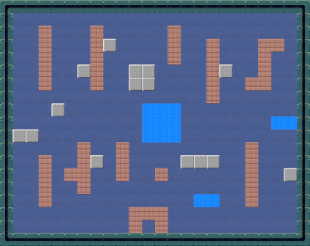
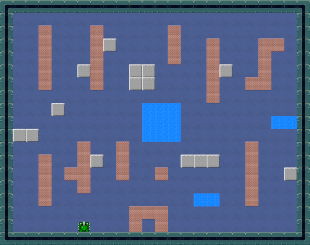
small fixes and new levels

diff --git a/source/menu/menu_items.cpp b/source/menu/menu_items.cpp
@@ -147,7 +147,9 @@ std::string MenuInscription::getContent() const {
     return static_cast<std::string>(text.getString());
 }
 
-MenuRectangle::MenuRectangle(Button &info, const sf::Vector2<float> &coordinates) : rectangle(info.getSize()) {
+MenuRectangle::MenuRectangle(Button &info,
+                             const sf::Vector2<float> &coordinates)
+    : rectangle(info.getSize()) {
     rectangle.setPosition(coordinates);
     rectangle.setFillColor(info.getStandardColor());
 }
@@ -244,13 +246,19 @@ MenuPicture::MenuPicture(const sf::Image &image_,
     initWithImage(coordinates);
 }
 
-MenuPicture::MenuPicture(const std::string &filename,  size_t sizeOfOne, size_t count, const sf::Vector2<float> &coordinates) : MenuItem(coordinates) { // NOLINT
+MenuPicture::MenuPicture(const std::string &filename,
+                         size_t sizeOfOne,
+                         size_t count,
+                         const sf::Vector2<float> &coordinates)
+    : MenuItem(coordinates) {  // NOLINT
     image.loadFromFile(filename);
     texture.loadFromImage(image);
     sprites.resize(count);
     for (size_t i = 0; i < count; ++i) {
         sprites[i].setTexture(texture);
-        sprites[i].setTextureRect(sf::IntRect{static_cast<int>(sizeOfOne * i), 0, static_cast<int>(sizeOfOne), static_cast<int>(sizeOfOne)});
+        sprites[i].setTextureRect(sf::IntRect{static_cast<int>(sizeOfOne * i),
+                                              0, static_cast<int>(sizeOfOne),
+                                              static_cast<int>(sizeOfOne)});
         sprites[i].setPosition(coordinates);
     }
 }
@@ -269,7 +277,8 @@ sf::Vector2<float> MenuPicture::getPosition() const {
 
 sf::Vector2<float> MenuPicture::getSize() const {
     assert(!sprites.empty());
-    return sf::Vector2<float>{sprites[0].getLocalBounds().width, sprites[0].getLocalBounds().height};
+    return sf::Vector2<float>{sprites[0].getLocalBounds().width,
+                              sprites[0].getLocalBounds().height};
 }
 
 void MenuPicture::setPosition(sf::Vector2<float> newPosition) {
@@ -339,12 +348,14 @@ MenuAdditionalButton::MenuAdditionalButton(const MenuItem *const mainButton_,
                                            int marginFromLeft,
                                            std::unique_ptr<MenuItem> &&content,
                                            ButtonWithType &info)
-    : MenuButton(std::move(content),
-                 sf::Vector2<float>{mainButton_->getPosition().x +
-                                        static_cast<float>(marginFromLeft) +
-                                        mainButton_->getSize().x,
-                                    mainButton_->getPosition().y + mainButton_->getSize().y - info.getSize().y},
-                 info),
+    : MenuButton(
+          std::move(content),
+          sf::Vector2<float>{mainButton_->getPosition().x +
+                                 static_cast<float>(marginFromLeft) +
+                                 mainButton_->getSize().x,
+                             mainButton_->getPosition().y +
+                                 mainButton_->getSize().y - info.getSize().y},
+          info),
       mainButton(mainButton_) {
 }
 

diff --git a/source/menu/menu.cpp b/source/menu/menu.cpp
@@ -219,12 +219,17 @@ void Menu::addAddingButtons(size_t start,
 
 void Menu::addPlayerInfo(PlayerGeneral &info) {
     const static size_t marginFromBackground = 20;
-    sf::Vector2<float> curCoordinates{marginFromBackground + items[0]->getPosition().x + items[0]->getSize().x, marginFromBackground};
+    sf::Vector2<float> curCoordinates{marginFromBackground +
+                                          items[0]->getPosition().x +
+                                          items[0]->getSize().x,
+                                      marginFromBackground};
     const static sf::Color defaultTextColor{255, 255, 255};
     const static size_t characterSize = 40;
 
-    InscriptionInfo usernameParameters{info.name, characterSize, defaultTextColor};
-    auto username = std::make_unique<MenuInscription>(usernameParameters, curCoordinates);
+    InscriptionInfo usernameParameters{info.name, characterSize,
+                                       defaultTextColor};
+    auto username =
+        std::make_unique<MenuInscription>(usernameParameters, curCoordinates);
     const static size_t marginFromUsername = 50;
     curCoordinates.x += username->getSize().x + marginFromUsername;
 
@@ -233,16 +238,23 @@ void Menu::addPlayerInfo(PlayerGeneral &info) {
     const static size_t sizeOfOne = 32;
     const static size_t imagesCount = 16;
 
-    auto coin = std::make_unique<MenuPicture>(coinFilename, sizeOfOne, imagesCount, curCoordinates);
+    auto coin =
+        std::make_unique<MenuPicture>(coinFilename, sizeOfOne, imagesCount, curCoordinates);
     curCoordinates.x += coin->getSize().x + marginFromCoin;
 
-    InscriptionInfo moneyParameters{std::to_string(info.money), characterSize, defaultTextColor};
-    auto money = std::make_unique<MenuInscription>(moneyParameters, curCoordinates);
+    InscriptionInfo moneyParameters{std::to_string(info.money), characterSize,
+                                    defaultTextColor};
+    auto money =
+        std::make_unique<MenuInscription>(moneyParameters, curCoordinates);
     curCoordinates = {items[0]->getPosition().x + items[0]->getSize().x, 0};
 
     const static sf::Color rectangleColor{0, 0, 0, 128};
-    float maxHeight = std::max(std::max(username->getSize().y, coin->getSize().y), money->getSize().y);
-    sf::Vector2<float> rectangleSize{2*marginFromBackground + username->getSize().x + marginFromUsername + coin->getSize().x + marginFromCoin + money->getSize().x, marginFromBackground*2 + maxHeight};
+    float maxHeight = std::max(
+        std::max(username->getSize().y, coin->getSize().y), money->getSize().y);
+    sf::Vector2<float> rectangleSize{
+        2*marginFromBackground + username->getSize().x + marginFromUsername +
+            coin->getSize().x + marginFromCoin + money->getSize().x,
+        marginFromBackground*2 + maxHeight};
     Button btnInfo(rectangleSize, rectangleColor, rectangleColor);
     auto background = std::make_unique<MenuRectangle>(btnInfo, curCoordinates);
 

diff --git a/source/menu/upgrade_menu.cpp b/source/menu/upgrade_menu.cpp
@@ -1,7 +1,7 @@
 #include "menu/upgrade_menu.h"
 #include <cassert>
-#include "menu/progress_bar.h"
 #include <cmath>
+#include "menu/progress_bar.h"
 
 namespace Tanks::Menu {
 
@@ -134,7 +134,7 @@ void updateSkills(PlayerSkills &skills, const ProgressBar *progressBar) {
     }
 }
 
-}
+}  // namespace
 
 void showUpgradeMenu(sf::RenderWindow &window,
                      const sf::Sprite &backgroundSprite,
@@ -155,9 +155,11 @@ void showUpgradeMenu(sf::RenderWindow &window,
                 const auto *btn =
                     dynamic_cast<const MenuAdditionalButton *>(res);
                 assert(btn != nullptr);
-                const auto *progressBar = dynamic_cast<const ProgressBar*>(btn->getMainButton());
+                const auto *progressBar =
+                    dynamic_cast<const ProgressBar*>(btn->getMainButton());
                 assert(progressBar != nullptr);
-                if (progressBar->getCurrentProgress() == progressBar->getMaxProgress()) {
+                if (progressBar->getCurrentProgress() ==
+                    progressBar->getMaxProgress()) {
                     continue;
                 }
                 int price = getPrice(progressBar->getCurrentProgress());

diff --git a/source/menu/users_menu.cpp b/source/menu/users_menu.cpp
@@ -77,8 +77,8 @@ Menu initMenu(PlayersDatabase &db, const std::string &imagesPath) {  // NOLINT
                                                   sf::Vector2<float>{0, 0});
         addingButtons.emplace_back(std::move(item));
     }
-    sf::Color addingButtonsStandardColor{0, 0, 0, 0};
-    sf::Color addingButtonsHoverColor{128, 128, 128, 128};
+    const static sf::Color addingButtonsStandardColor{0, 0, 0, 0};
+    const static sf::Color addingButtonsHoverColor{128, 128, 128, 128};
 
     ButtonWithType info{ButtonType::DELETE,
                         sf::Vector2<float>{buttonsHeight, buttonsHeight},
@@ -121,7 +121,10 @@ void showUsersMenu(sf::RenderWindow &window) {
                     db.disconnectFromDatabase();
                     menu.flyAwayToLeft(window, backgroundSprite);
                     showMainMenu(window, backgroundSprite, person);
+                    db.connect();
+                    db.updateInfo(person);
                     db.makeOffline(person.general.name);
+                    db.disconnectFromDatabase();
                     menu.flyOutFromLeft(window, backgroundSprite);
                 }
             } break;

diff --git a/headers/menu/menu_items.h b/headers/menu/menu_items.h
@@ -134,7 +134,7 @@ public:
     void draw(sf::RenderWindow &window) const override;
 
 protected:
-    mutable sf::RectangleShape rectangle; // NOLINT
+    mutable sf::RectangleShape rectangle;  // NOLINT
 };
 
 struct MenuButton : MenuRectangle {
@@ -172,10 +172,11 @@ public:
     explicit MenuPicture(const sf::Image &image_,
                          const sf::Vector2<float> &coordinates);
 
-    explicit MenuPicture(const std::string &filename,
-                         size_t sizeOfOne,
-                         size_t count,
-                         const sf::Vector2<float> &coordinates); // for animation
+    explicit MenuPicture(
+        const std::string &filename,
+        size_t sizeOfOne,
+        size_t count,
+        const sf::Vector2<float> &coordinates);  // for animation
 
     [[nodiscard]] sf::Vector2<float> getSize() const final;
     [[nodiscard]] sf::Vector2<float> getPosition() const final;

diff --git a/headers/menu/progress_bar.h b/headers/menu/progress_bar.h
@@ -22,11 +22,7 @@ private:
     sf::RectangleShape indicator;
 };
 
-enum class ProgressBarType {
-    TANK_SPEED,
-    BULLET_SPEED,
-    RELOAD_TICKS
-};
+enum class ProgressBarType {TANK_SPEED, BULLET_SPEED, RELOAD_TICKS };
 
 struct ProgressBar final : MenuItem {
 public:
@@ -48,7 +44,8 @@ public:
 
     [[maybe_unused]] void upgrade();
 
-    void addInfoToRightUpCorner(std::vector<std::unique_ptr<MenuItem>> &&newItems);
+    void addInfoToRightUpCorner(
+        std::vector<std::unique_ptr<MenuItem>> &&newItems);
 
     void draw(sf::RenderWindow &window) const final;
 

diff --git a/source/menu/levels_menu.cpp b/source/menu/levels_menu.cpp
@@ -40,7 +40,7 @@ Menu initMenu(const std::string &imagesPath) {
 
 ButtonType showLevelsMenu(sf::RenderWindow &window,
                           const sf::Sprite &backgroundSprite,
-                          PlayerInfo &info) {
+                          [[maybe_unused]] PlayerInfo &info) {
     const static std::string imagesPath = "../images/menu/";
     Menu menu(initMenu(imagesPath + "levels/"));
     menu.addIconToLeftUpCorner(imagesPath + "return.png", ButtonType::RETURN);

diff --git a/headers/menu/upgrade_menu.h b/headers/menu/upgrade_menu.h
@@ -5,7 +5,9 @@
 
 namespace Tanks::Menu {
 
-void showUpgradeMenu(sf::RenderWindow &window, const sf::Sprite &backgroundSprite, PlayerInfo &info);
+void showUpgradeMenu(sf::RenderWindow &window,
+                     const sf::Sprite &backgroundSprite,
+                     PlayerInfo &info);
 
 }
 

diff --git a/headers/menu/main_menu.h b/headers/menu/main_menu.h
@@ -5,7 +5,9 @@
 
 namespace Tanks::Menu {
 
-void showMainMenu(sf::RenderWindow &window, const sf::Sprite &backgroundSprite, PlayerInfo &info);
+void showMainMenu(sf::RenderWindow &window,
+                  const sf::Sprite &backgroundSprite,
+                  PlayerInfo &info);
 
 }
 

diff --git a/headers/menu/new_game_menu.h b/headers/menu/new_game_menu.h
@@ -5,7 +5,9 @@
 
 namespace Tanks::Menu {
 
-void showNewGameMenu(sf::RenderWindow &window, const sf::Sprite &background, PlayerInfo &info);
+void showNewGameMenu(sf::RenderWindow &window,
+                     const sf::Sprite &background,
+                     PlayerInfo &info);
 
 }
 

diff --git a/headers/constants.h b/headers/constants.h
@@ -19,7 +19,7 @@ constexpr int DEFAULT_RELOAD_TICKS = 100;
 constexpr int BULLET_SIZE = 10;
 
 // menu
-constexpr int LEVELS_COUNT = 1;
+constexpr int LEVELS_COUNT = 3;
 constexpr int TEXT_MARGIN = 10;
 
 }  // namespace Tanks

diff --git a/headers/menu/menu.h b/headers/menu/menu.h
@@ -5,8 +5,8 @@
 #include <memory>
 #include <vector>
 #include "constants.h"
-#include "menu_items.h"
 #include "database.h"
+#include "menu_items.h"
 
 namespace Tanks {
 
